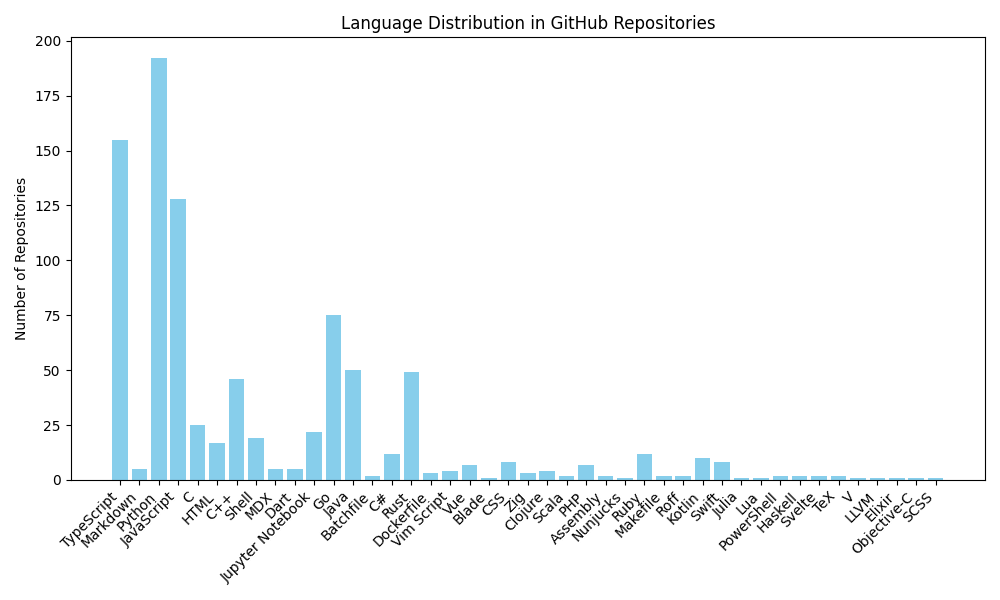
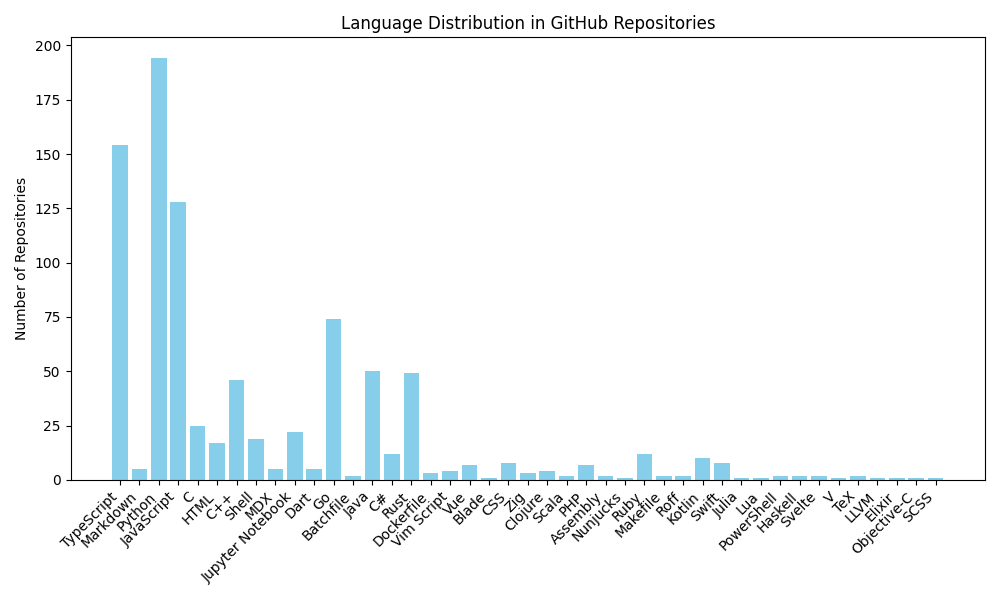
Update language distribution chart

diff --git a/README.md b/README.md
@@ -5,7 +5,7 @@
 Total repositories processed: 898
 
 Language distribution:
-TypeScript: 155, Markdown: 5, Python: 192, JavaScript: 128, C: 25, HTML: 17, C++: 46, Shell: 19, MDX: 5, Dart: 5, Jupyter Notebook: 22, Go: 75, Java: 50, Batchfile: 2, C#: 12, Rust: 49, Dockerfile: 3, Vim Script: 4, Vue: 7, Blade: 1, CSS: 8, Zig: 3, Clojure: 4, Scala: 2, PHP: 7, Assembly: 2, Nunjucks: 1, Ruby: 12, Makefile: 2, Roff: 2, Kotlin: 10, Swift: 8, Julia: 1, Lua: 1, PowerShell: 2, Haskell: 2, Svelte: 2, TeX: 2, V: 1, LLVM: 1, Elixir: 1, Objective-C: 1, SCSS: 1
+TypeScript: 154, Markdown: 5, Python: 194, JavaScript: 128, C: 25, HTML: 17, C++: 46, Shell: 19, MDX: 5, Jupyter Notebook: 22, Dart: 5, Go: 74, Batchfile: 2, Java: 50, C#: 12, Rust: 49, Dockerfile: 3, Vim Script: 4, Vue: 7, Blade: 1, CSS: 8, Zig: 3, Clojure: 4, Scala: 2, PHP: 7, Assembly: 2, Nunjucks: 1, Ruby: 12, Makefile: 2, Roff: 2, Kotlin: 10, Swift: 8, Julia: 1, Lua: 1, PowerShell: 2, Haskell: 2, Svelte: 2, V: 1, TeX: 2, LLVM: 1, Elixir: 1, Objective-C: 1, SCSS: 1
 
 
-_Last updated: 2025-10-12 01:10:47_
+_Last updated: 2025-10-19 01:16:37_
